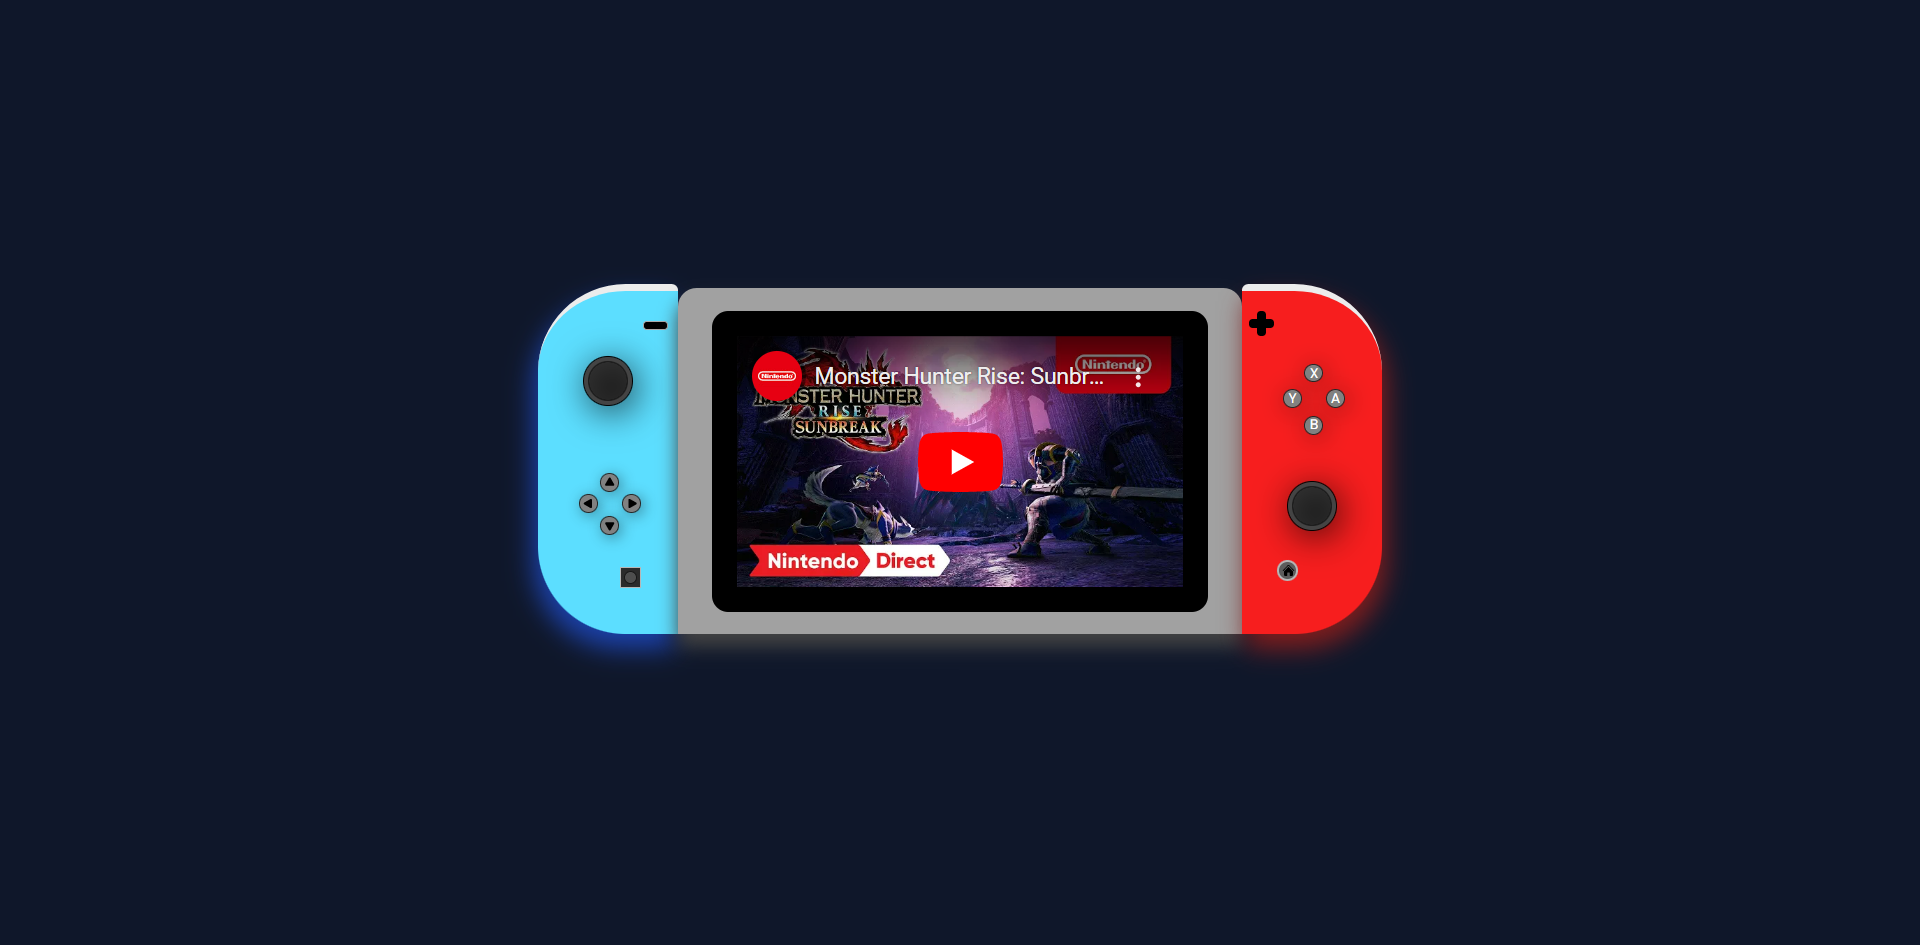
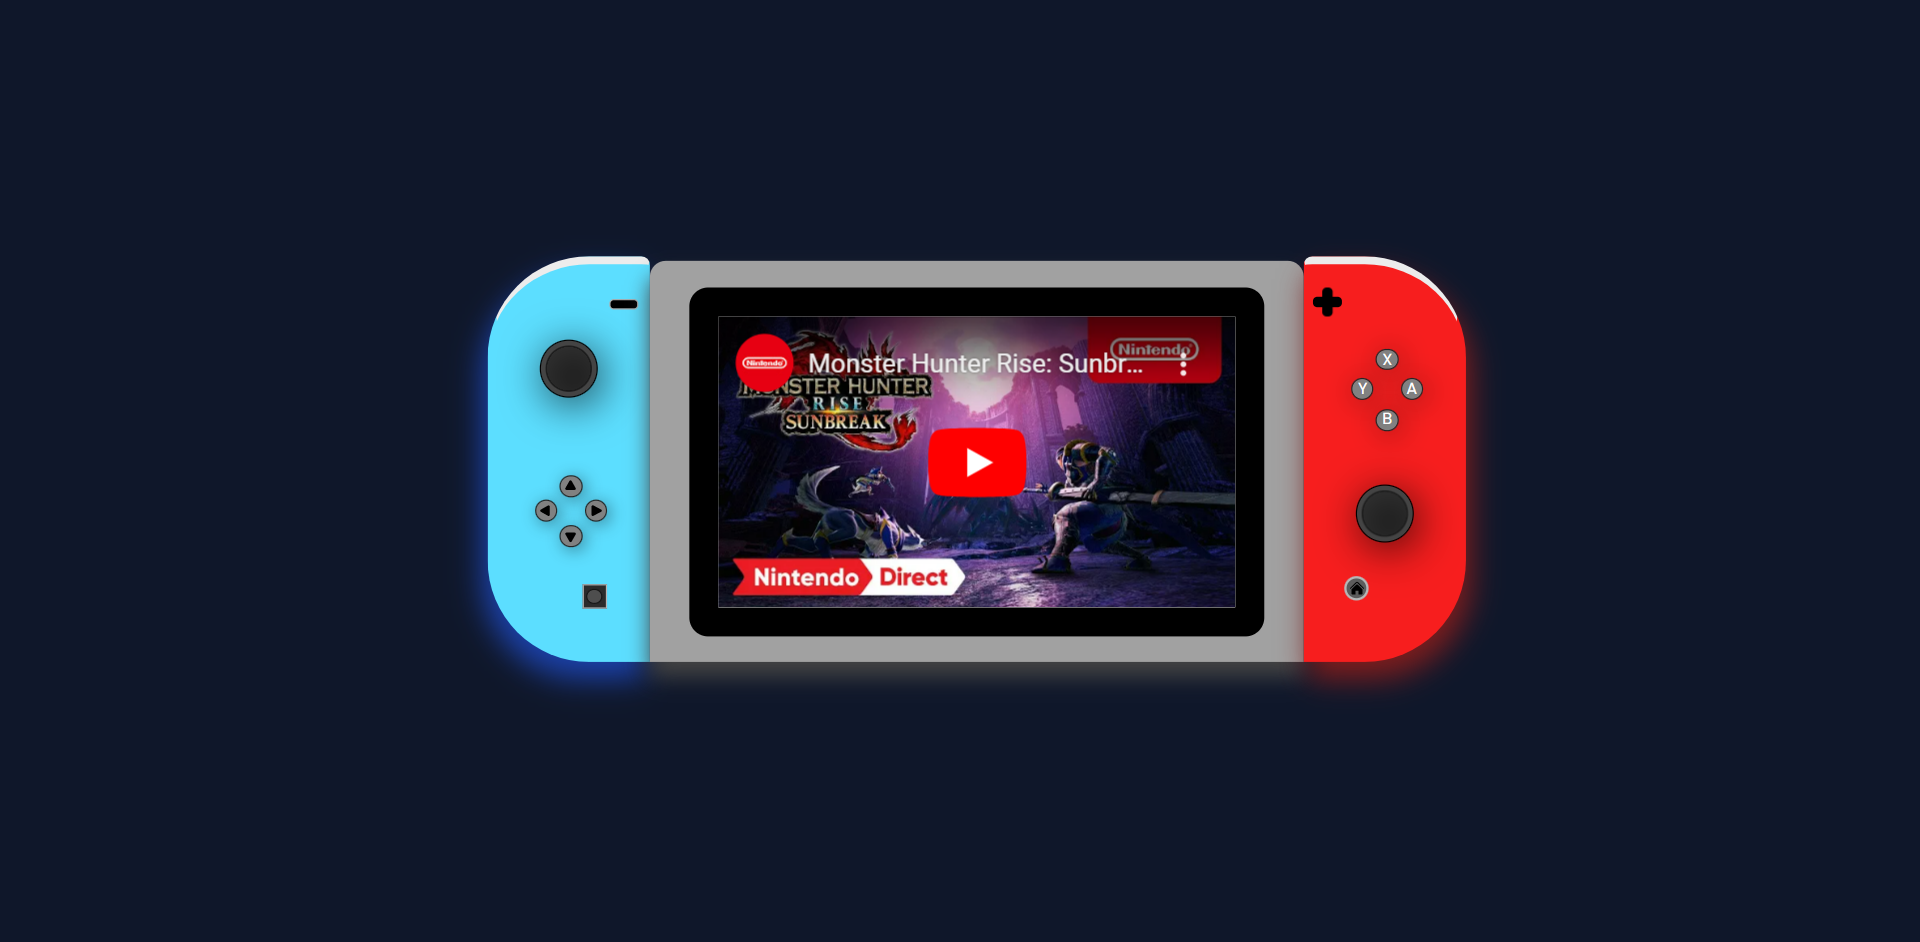
Videoconsola V13, correción de errores, triggers y home

Changed region(s): [[0.2188, 0.2463, 0.7812, 0.7389]]

diff --git a/css/styles.css b/css/styles.css
@@ -37,7 +37,7 @@ body {
     background-color: rgb(92, 222, 255);
     border-bottom-left-radius: 70px;
     border-top-left-radius: 70px;
-    border-top-right-radius: 5px;
+    border-top-right-radius: 6px;
     display: grid;
     grid-template-columns: 1fr 2fr 1fr;
     grid-template-rows: 1fr 2fr 4fr 1fr 1fr;
@@ -49,6 +49,10 @@ body {
 .Triggers {
 
     border-top: 6px solid #ececec;
+    border-left: 0.5px solid transparent;
+    border-right: 0.5px solid transparent;
+
+ 
 }
 
 #LeftSide:hover {
@@ -275,6 +279,7 @@ p{
     margin: 0.4vh 0 0 0;
     border-top-left-radius: 11px;
     border-top-right-radius: 11px;
+    
 
 }
 
@@ -295,7 +300,7 @@ p{
     background-color: rgb(247, 30, 30);
     border-top-right-radius: 70px;
     border-bottom-right-radius: 70px;
-    border-top-left-radius: 5px;
+    border-top-left-radius: 6px;
     display: grid;
     grid-template-columns: 1fr 2fr 1fr;
     grid-template-rows: 1fr 3fr 2fr 1fr 1fr;
